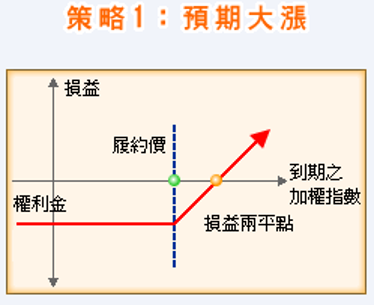
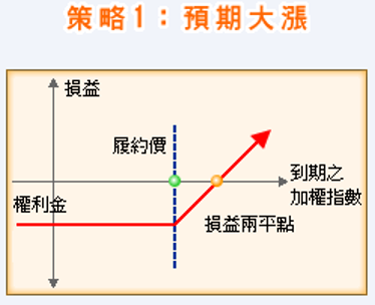
20170424, Change options pics size.

diff --git a/options1.html b/options1.html
@@ -35,7 +35,7 @@
     <div id='price'><p>-50</p></div>
     <div id='contract'><p>9800</p></div>
     <div id='balance'><p>9850</p></div>
-    <img src="https://cloud.githubusercontent.com/assets/664465/25315152/64d246fc-2883-11e7-8d81-f8c90a58df58.png" />
+    <img src="https://cloud.githubusercontent.com/assets/664465/25320079/6429cbdc-28d6-11e7-87fe-d3a7dce3104b.png" />
 </body>
 
 </html>

diff --git a/options2.html b/options2.html
@@ -35,7 +35,7 @@
     <div id='price'><p>-50</p></div>
     <div id='contract'><p>9500</p></div>
     <div id='balance'><p>9450</p></div>
-    <img src="https://cloud.githubusercontent.com/assets/664465/25315258/16b36cc4-2885-11e7-8801-b4288b0bd5d7.png" />
+    <img src="https://cloud.githubusercontent.com/assets/664465/25320082/662b5248-28d6-11e7-94ee-d652513b1503.png" />
 </body>
 
 </html>
